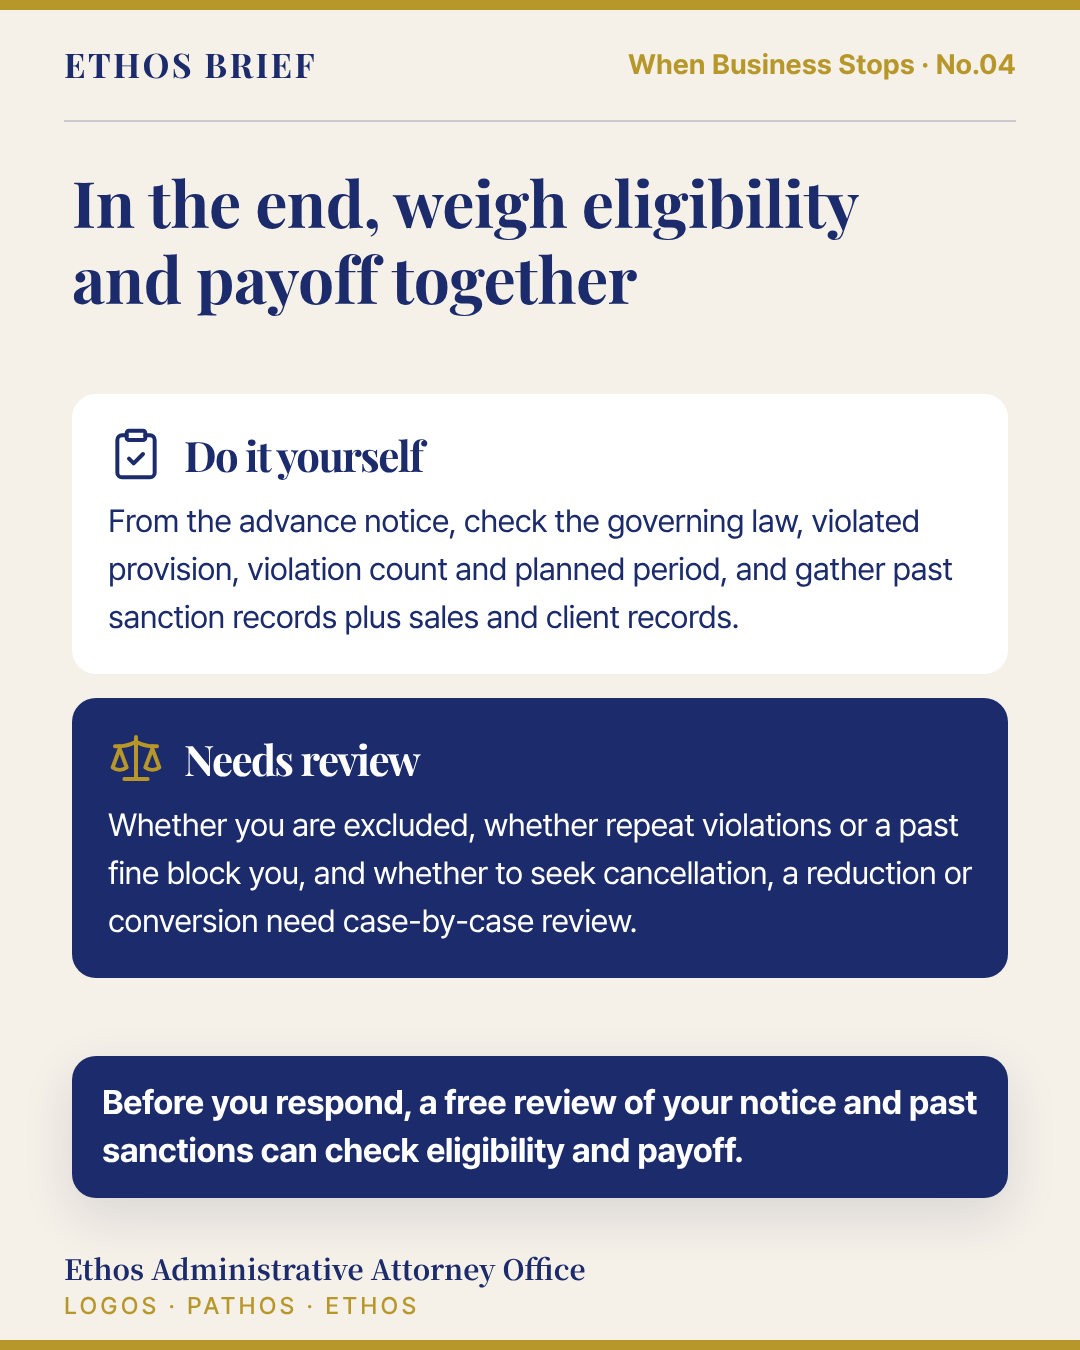
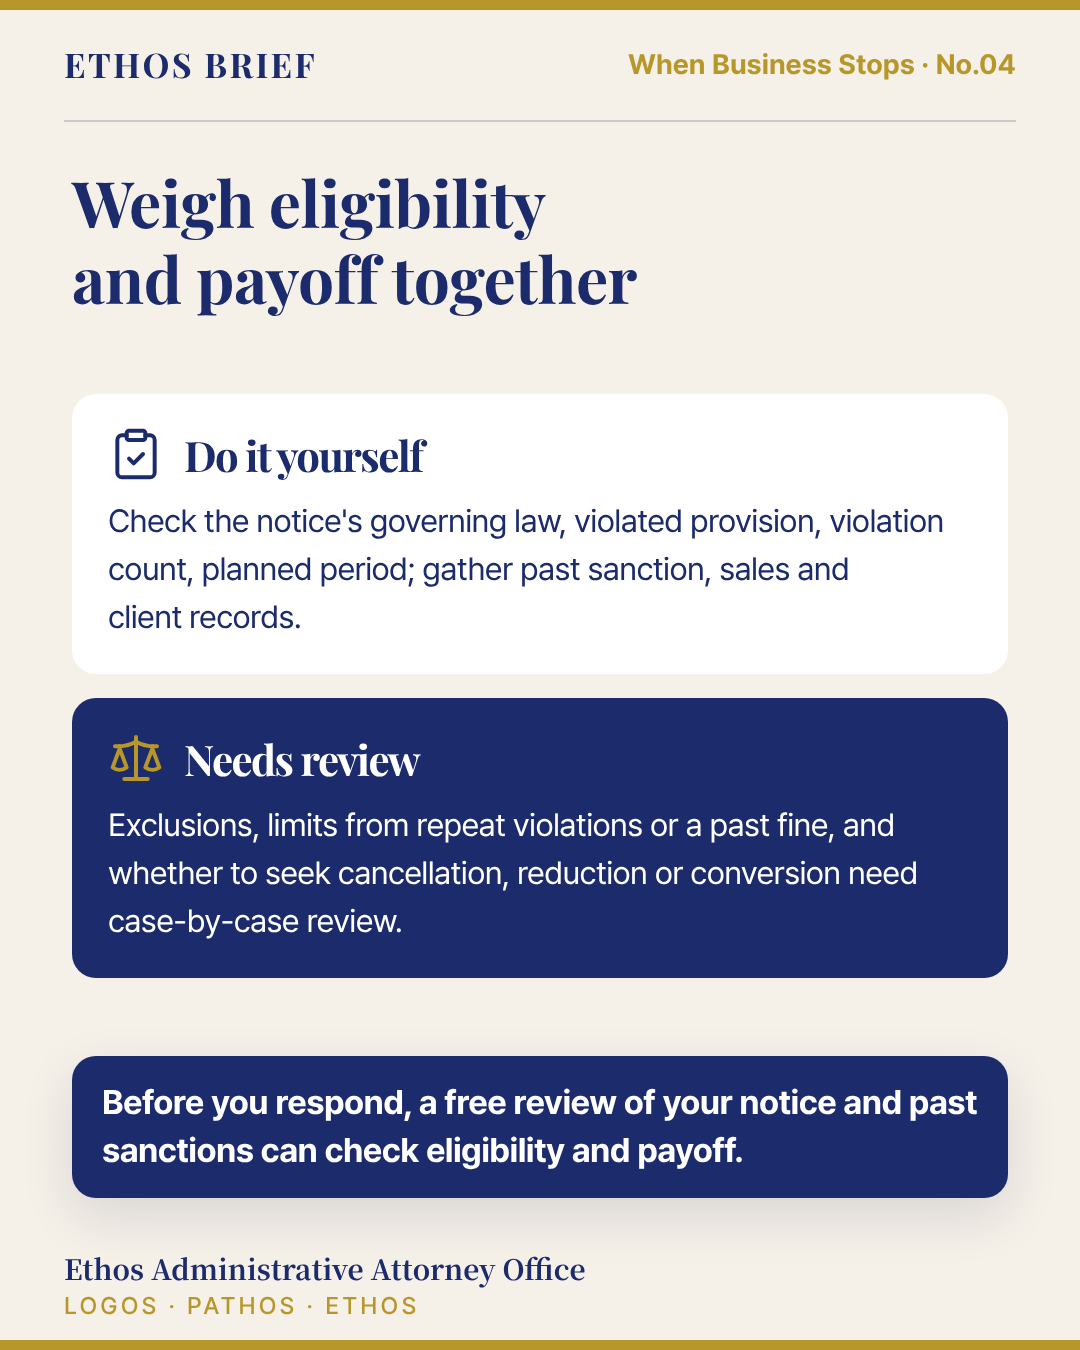
content: TEST-SUSPENSION-V3 밀도 조정(국문 10장, 영문 4·7·10장), 성과 기록 준비, 문서 정리
Claude-Session: https://claude.ai/code/session_01QUs8FUpMwmocYMUwhS2875

Changed region(s): [[0.0917, 0.5911, 0.8861, 0.7156], [0.0917, 0.3733, 0.8861, 0.4667], [0.0611, 0.1244, 0.7944, 0.1867]]

diff --git a/content/TEST-SUSPENSION-V3/en/card_04.html b/content/TEST-SUSPENSION-V3/en/card_04.html
@@ -12,8 +12,8 @@
   <div class="hl" data-frame="line"></div>
   <div class="body">
     <div class="z-title" data-zone="title"><h2 class="h2" data-role="headline">In Seoul, a <span data-annotate="underline">15-day</span> suspension<br>became a fine</h2></div>
-    <div class="z-main" data-zone="main"><div class="q-head"><div class="q-art" data-decor data-focal><svg class="obj" data-asset="phosphor/gavel" aria-hidden="true" focusable="false" xmlns="http://www.w3.org/2000/svg" viewBox="0 0 256 256" fill="currentColor"><path d="M149.66,45.66l-64,64a8,8,0,0,1-11.32,0l-16-16a8,8,0,0,1,0-11.32l64-64a8,8,0,0,1,11.32,0l16,16A8,8,0,0,1,149.66,45.66Zm88,76.68-16-16a8,8,0,0,0-11.32,0l-64,64a8,8,0,0,0,0,11.32l16,16a8,8,0,0,0,11.32,0l64-64A8,8,0,0,0,237.66,122.34Z" style="fill:var(--obj-fill, var(--ethos-gold))"/><path d="M243.32,116.69l-16-16a16,16,0,0,0-20.84-1.53L156.84,49.52a16,16,0,0,0-1.52-20.84l-16-16a16,16,0,0,0-22.63,0l-64,64a16,16,0,0,0,0,22.63l16,16a16,16,0,0,0,20.83,1.52L96.69,124,31.31,189.38A25,25,0,0,0,66.63,224.7L132,159.32l7.17,7.16a16,16,0,0,0,1.52,20.84l16,16a16,16,0,0,0,22.63,0l64-64A16,16,0,0,0,243.32,116.69ZM80,104,64,88l64-64,16,16ZM55.32,213.38a9,9,0,0,1-12.69,0,9,9,0,0,1,0-12.68L108,135.32,120.69,148ZM101,105.66,145.66,61,195,110.34,150.35,155ZM168,192l-16-16,4-4h0l56-56h0l4-4,16,16Z"/></svg></div><div class="q-src" data-role="label">Seoul Metropolitan Administrative Appeals Commission 2024-01195, Sept. 23, 2024</div></div><div class="q-panel"><div class="q-body">The violation was confirmed, but given the specific circumstances, the 15-day suspension was changed to a fine replacing those 15 days.</div><div class="q-note">Contesting the violation and asking to change the form of the sanction are different responses.</div></div></div>
-    <div class="z-take" data-zone="take"><div class="close" data-role="takeaway">Even if the violation is hard to deny, you are not done: a fine conversion can still be reviewed.</div></div>
+    <div class="z-main" data-zone="main"><div class="q-head"><div class="q-art" data-decor data-focal><svg class="obj" data-asset="phosphor/gavel" aria-hidden="true" focusable="false" xmlns="http://www.w3.org/2000/svg" viewBox="0 0 256 256" fill="currentColor"><path d="M149.66,45.66l-64,64a8,8,0,0,1-11.32,0l-16-16a8,8,0,0,1,0-11.32l64-64a8,8,0,0,1,11.32,0l16,16A8,8,0,0,1,149.66,45.66Zm88,76.68-16-16a8,8,0,0,0-11.32,0l-64,64a8,8,0,0,0,0,11.32l16,16a8,8,0,0,0,11.32,0l64-64A8,8,0,0,0,237.66,122.34Z" style="fill:var(--obj-fill, var(--ethos-gold))"/><path d="M243.32,116.69l-16-16a16,16,0,0,0-20.84-1.53L156.84,49.52a16,16,0,0,0-1.52-20.84l-16-16a16,16,0,0,0-22.63,0l-64,64a16,16,0,0,0,0,22.63l16,16a16,16,0,0,0,20.83,1.52L96.69,124,31.31,189.38A25,25,0,0,0,66.63,224.7L132,159.32l7.17,7.16a16,16,0,0,0,1.52,20.84l16,16a16,16,0,0,0,22.63,0l64-64A16,16,0,0,0,243.32,116.69ZM80,104,64,88l64-64,16,16ZM55.32,213.38a9,9,0,0,1-12.69,0,9,9,0,0,1,0-12.68L108,135.32,120.69,148ZM101,105.66,145.66,61,195,110.34,150.35,155ZM168,192l-16-16,4-4h0l56-56h0l4-4,16,16Z"/></svg></div><div class="q-src" data-role="label">Seoul Metropolitan Administrative Appeals Commission 2024-01195, Sept. 23, 2024</div></div><div class="q-panel"><div class="q-body">The violation was confirmed, but given the circumstances, the 15-day suspension became a fine in its place.</div><div class="q-note">Contesting the violation and asking to change the sanction's form are different moves.</div></div></div>
+    <div class="z-take" data-zone="take"><div class="close" data-role="takeaway">A violation that is hard to deny can still leave room for a fine conversion.</div></div>
   </div>
   <div class="ftr"><div class="org" data-frame="org">Ethos Administrative Attorney Office</div><div class="tagl" data-frame="tagline">LOGOS · PATHOS · ETHOS</div><div class="pg" data-frame="page" aria-hidden="true"></div></div>
   <div class="gold-bottom" data-frame="gold-bottom"></div>

diff --git a/content/TEST-SUSPENSION-V3/en/card_10.html b/content/TEST-SUSPENSION-V3/en/card_10.html
@@ -11,7 +11,7 @@
   <div class="hdr"><span class="wm" data-frame="wordmark">ETHOS BRIEF</span><span class="sec" data-frame="section">When Business Stops · No.04</span></div>
   <div class="hl" data-frame="line"></div>
   <div class="body">
-    <div class="z-title" data-zone="title"><h2 class="h2" data-role="headline">In the end, weigh eligibility<br>and payoff together</h2></div>
+    <div class="z-title" data-zone="title"><h2 class="h2" data-role="headline">Weigh eligibility<br>and payoff together</h2></div>
     <div class="z-main" data-zone="main"><div class="bound stack"><div class="bound-col"><div class="bound-h"><div class="bound-ico" style="color:var(--ethos-navy)"><svg class="ico" data-icon="clipboard-check" aria-hidden="true" focusable="false"
   xmlns="http://www.w3.org/2000/svg"
  
@@ -26,7 +26,7 @@
   <rect width="8" height="4" x="8" y="2" rx="1" ry="1" />
   <path d="M16 4h2a2 2 0 0 1 2 2v14a2 2 0 0 1-2 2H6a2 2 0 0 1-2-2V6a2 2 0 0 1 2-2h2" />
   <path d="m9 14 2 2 4-4" />
-</svg></div><div class="bound-k">Do it yourself</div></div><div class="bound-t">From the advance notice, check the governing law, violated provision, violation count and planned period, and gather past sanction records plus sales and client records.</div></div><div class="bound-col deep"><div class="bound-h"><div class="bound-ico"><svg class="ico" data-icon="scale" aria-hidden="true" focusable="false"
+</svg></div><div class="bound-k">Do it yourself</div></div><div class="bound-t">Check the notice's governing law, violated provision, violation count, planned period; gather past sanction, sales and client records.</div></div><div class="bound-col deep"><div class="bound-h"><div class="bound-ico"><svg class="ico" data-icon="scale" aria-hidden="true" focusable="false"
   xmlns="http://www.w3.org/2000/svg"
  
  
@@ -42,7 +42,7 @@
   <path d="M3 7h1a17 17 0 0 0 8-2 17 17 0 0 0 8 2h1" />
   <path d="m5 8 3 8a5 5 0 0 1-6 0zV7" />
   <path d="M7 21h10" />
-</svg></div><div class="bound-k">Needs review</div></div><div class="bound-t">Whether you are excluded, whether repeat violations or a past fine block you, and whether to seek cancellation, a reduction or conversion need case-by-case review.</div></div></div></div>
+</svg></div><div class="bound-k">Needs review</div></div><div class="bound-t">Exclusions, limits from repeat violations or a past fine, and whether to seek cancellation, reduction or conversion need case-by-case review.</div></div></div></div>
     <div class="z-take" data-zone="take"><div class="take" data-role="takeaway">Before you respond, a free review of your notice and past sanctions can check eligibility and payoff.</div></div>
   </div>
   <div class="ftr"><div class="org" data-frame="org">Ethos Administrative Attorney Office</div><div class="tagl" data-frame="tagline">LOGOS · PATHOS · ETHOS</div><div class="pg" data-frame="page" aria-hidden="true"></div></div>

diff --git a/content/TEST-SUSPENSION-V3/en/card_07.html b/content/TEST-SUSPENSION-V3/en/card_07.html
@@ -12,8 +12,8 @@
   <div class="hl" data-frame="line"></div>
   <div class="body">
     <div class="z-title" data-zone="title"><h2 class="h2" data-role="headline">A medical waste firm's<br>1.5-month suspension stood</h2></div>
-    <div class="z-main" data-zone="main"><div><div class="q-src" data-role="label" style="margin-bottom:10px">Central Administrative Appeals Commission 2026-10301, Aug. 18, 2026</div><div class="q-hero" data-decor data-focal>1.5 months</div></div><div class="q-panel"><div class="q-body">The firm cited waste piling up at client hospitals and infection risk, but given that other disposal firms were available, the need for conversion was not recognized.</div><div class="q-note">In the end, the 1.5-month suspension stood.</div></div></div>
-    <div class="z-take" data-zone="take"><div class="close" data-role="takeaway">Claiming harm to clients is not the same as meeting the legal requirements for conversion.</div></div>
+    <div class="z-main" data-zone="main"><div><div class="q-src" data-role="label" style="margin-bottom:10px">Central Administrative Appeals Commission 2026-10301, Aug. 18, 2026</div><div class="q-hero" data-decor data-focal>1.5 months</div></div><div class="q-panel"><div class="q-body">The firm cited waste piling up at client hospitals and infection risk, but with other disposal firms available, conversion was not found necessary.</div><div class="q-note">In the end, the 1.5-month suspension stood.</div></div></div>
+    <div class="z-take" data-zone="take"><div class="close" data-role="takeaway">Harm to clients is a different question from the legal requirements for conversion.</div></div>
   </div>
   <div class="ftr"><div class="org" data-frame="org">Ethos Administrative Attorney Office</div><div class="tagl" data-frame="tagline">LOGOS · PATHOS · ETHOS</div><div class="pg" data-frame="page" aria-hidden="true"></div></div>
   <div class="gold-bottom" data-frame="gold-bottom"></div>

diff --git a/content/TEST-SUSPENSION-V3/ko/card_10.html b/content/TEST-SUSPENSION-V3/ko/card_10.html
@@ -42,7 +42,7 @@
   <path d="M3 7h1a17 17 0 0 0 8-2 17 17 0 0 0 8 2h1" />
   <path d="m5 8 3 8a5 5 0 0 1-6 0zV7" />
   <path d="M7 21h10" />
-</svg></div><div class="bound-k">종합 검토</div></div><div class="bound-t">제외대상인지, 반복위반이나 과거 과징금 처분으로 막히는지, 취소와 감경과 전환 중 무엇을 요구할지는 개별 검토가 필요합니다.</div></div></div></div>
+</svg></div><div class="bound-k">종합 검토</div></div><div class="bound-t">제외대상인지, 반복위반·과거 과징금 처분으로 막히는지, 취소와 감경과 전환 중 무엇을 요구할지는 개별 검토가 필요합니다.</div></div></div></div>
     <div class="z-take" data-zone="take"><div class="take" data-role="takeaway">의견제출 전에 사전통지서와 과거 처분내역으로 전환 가능성과 실익을 무료 검토로 확인할 수 있습니다.</div></div>
   </div>
   <div class="ftr"><div class="org" data-frame="org">에토스 행정사사무소</div><div class="tagl" data-frame="tagline">LOGOS · PATHOS · ETHOS</div><div class="pg" data-frame="page" aria-hidden="true"></div></div>

diff --git a/content/TEST-SUSPENSION-V3/out/en/qa-report.md b/content/TEST-SUSPENSION-V3/out/en/qa-report.md
@@ -10,13 +10,13 @@
 | card_01.html | cover | 235 | 54 | 0.68 | 26 | PASS |
 | card_02.html | concept | 339 | 65 | 0.9 | 26 | PASS |
 | card_03.html | concept | 337 | 68 | 0.68 | 26 | PASS |
-| card_04.html | quote | 382 | 71 | 0.85 | 26 | PASS |
+| card_04.html | quote | 334 | 61 | 0.85 | 26 | PASS |
 | card_05.html | comparison | 358 | 64 | 0.76 | 26 | PASS |
 | card_06.html | checklist | 348 | 67 | 0.83 | 26 | PASS |
-| card_07.html | quote | 365 | 65 | 0.89 | 26 | PASS |
+| card_07.html | quote | 345 | 59 | 0.82 | 26 | PASS |
 | card_08.html | checklist | 230 | 45 | 0.76 | 26 | PASS |
 | card_09.html | checklist | 334 | 65 | 0.63 | 26 | PASS |
-| card_10.html | cta | 434 | 79 | 0.79 | 26 | PASS |
+| card_10.html | cta | 380 | 64 | 0.79 | 26 | PASS |
 
 ### card_01.html 권고
 - words 54 > 권고 48 (영문 호흡과 모바일 가독성 확인)
@@ -30,8 +30,8 @@
 - words 68 > 강한 경고 48 (영문 호흡과 모바일 가독성 확인)
 
 ### card_04.html 권고
-- chars 382 > 강한 경고 300 (문장 압축 또는 카드 분리 검토)
-- words 71 > 강한 경고 48 (영문 호흡과 모바일 가독성 확인)
+- chars 334 > 권고 300 (문장 압축 또는 카드 분리 검토)
+- words 61 > 권고 48 (영문 호흡과 모바일 가독성 확인)
 
 ### card_05.html 권고
 - chars 358 > 권고 300 (문장 압축 또는 카드 분리 검토)
@@ -42,16 +42,16 @@
 - words 67 > 강한 경고 48 (영문 호흡과 모바일 가독성 확인)
 
 ### card_07.html 권고
-- chars 365 > 권고 300 (문장 압축 또는 카드 분리 검토)
-- words 65 > 강한 경고 48 (영문 호흡과 모바일 가독성 확인)
+- chars 345 > 권고 300 (문장 압축 또는 카드 분리 검토)
+- words 59 > 권고 48 (영문 호흡과 모바일 가독성 확인)
 
 ### card_09.html 권고
 - chars 334 > 권고 300 (문장 압축 또는 카드 분리 검토)
 - words 65 > 강한 경고 48 (영문 호흡과 모바일 가독성 확인)
 
 ### card_10.html 권고
-- chars 434 > 강한 경고 300 (문장 압축 또는 카드 분리 검토)
-- words 79 > 강한 경고 48 (영문 호흡과 모바일 가독성 확인)
+- chars 380 > 권고 300 (문장 압축 또는 카드 분리 검토)
+- words 64 > 권고 48 (영문 호흡과 모바일 가독성 확인)
 
 ## 사람이 확인할 것 (자동화 불가)
 - [ ] 법령·판례 해석이 원문과 일치하는가 (변호사·행정사 최종 확인)

diff --git a/CHANGELOG.md b/CHANGELOG.md
@@ -1,5 +1,13 @@
 # Changelog
 
+## 2026-10-07 — 남은 개선 마무리(표·흐름 부품, 표지 그림, 밀도, 성과 기록)
+
+- 자동 디자인: 표(`.tbl2`, 5행 이상 압축), 세로 흐름(`.vflow`, 아이콘 배지+화살표+메모), 마지막 장 3~6개 목록(`.docs`) 부품. 문자열 항목("제목: 설명")은 구분 기호를 남겨 원문 그대로 보이게 했다. GAME-OVERSEAS-06-V2-DRAFT의 표 2장·흐름 1장이 자동 디자인으로 나온다.
+- `ci_render.py`: 자동 초안이 QA를 깨면 실패한 카드만 기본 빌더로 되돌리고, 그래도 실패할 때만 전체를 되돌린다.
+- 승인 세트 SUSPENSION-SURCHARGE-04(`art: scale, receipt`)·GAME-OVERSEAS-06(`art: laptop, landmark`)과 V2-DRAFT 표지에 `art` 추가(사용자 허락, 문구 변경 없음). `plain-cover` 경고 4건 해소, assets.md 출처 기록.
+- TEST-SUSPENSION-V3 밀도: 국문 10장 권고 해소, 영문 4·7·10장 압축(사실·한정어 비교 경고 0). `performance-log.csv` 준비(표지 Hook A/B 변수 기록).
+- 미해결 기준 충돌: `gates.json` 영문 권고(카드당 300자·48단어)와 `card-authoring-spec.md`의 영문 평균 330자 이상 권장이 동시에 맞지 않는다. `gates.json`은 사람만 고치는 파일이라 그대로 두었다.
+
 ## 2026-10-07 — 자동 디자인: ChatGPT JSON만으로 강화된 미리보기
 
 - 운영 구조(사용자 확인): ChatGPT가 card-data JSON을 쓰고 Codex가 나머지를 실현한다. 그런데 JSON만 올린 세트의 CI 미리보기는 기본 빌더라 같은 목록 틀이었다.

diff --git a/content/TEST-SUSPENSION-V3/review.md b/content/TEST-SUSPENSION-V3/review.md
@@ -25,3 +25,9 @@ C3 흐름: 4/5 — 국문과 같은 순서·구도.
 C4 사실과 형식: 4/5 — QA PASS, 카피 잠금 통과, 두 언어 구조 일치(validate_bilingual PASS). 행정사 표기는 꼬리말 Administrative Attorney Office.
 고친 것: 1차 영문 렌더에서 2장 핵심어 칸 넘침, 3장 대조어 넘침, 4장 '15-day' 줄 갈라짐, 7·9장 제목 3줄과 숫자 칸 겹침 → 프리셋 A에 영문 크기 규칙 추가.
 남은 것(사람 확인): 영어 원어민 감수, 4·7·10장 밀도.
+
+2026-10-07 밀도 조정(사용자 진행 승인)
+- 국문 10장: '반복위반이나 과거 과징금 처분' → '반복위반·과거 과징금 처분'. chars 181 → 180 이하, QA 권고 해소.
+- 영문 4·7·10장 문장 압축, 10장 제목 단축. 10장 380자·64단어(강한 경고 한도 안). 사실 토큰·한정어 비교 경고 0.
+- 남은 것: 영문 대부분 카드가 gates.json 영문 권고(300자·48단어)를 넘는다. 카드 명세는 영문 평균 330자 이상을 권해 두 기준이 충돌한다(사람이 gates.json 또는 명세 중 하나를 정해야 함).
+

diff --git a/content/TEST-SUSPENSION-V3/marketing-report.md b/content/TEST-SUSPENSION-V3/marketing-report.md
@@ -1,18 +1,17 @@
 # Marketing Review
 
-종합 권고 점수: **96/100**
+종합 권고 점수: **97/100**
 
 > 발행을 막지 않는 편집 보조 지표다. 실제 성과 데이터로 조정한다.
 
 | 언어 | 훅 | 신뢰 | 가독성 | 실용성 | 전환 | 합계 |
 |---|---:|---:|---:|---:|---:|---:|
-| ko | 20 | 20 | 19 | 20 | 20 | 99 |
+| ko | 20 | 20 | 20 | 20 | 20 | 100 |
 | en | 20 | 20 | 14 | 20 | 20 | 94 |
 
 ## 권고
-- ko: 밀도 권장 초과 1/10장(글자) — 가독성 -1점
 - en: 밀도 권장 초과 8/10장(글자/단어) — 가독성 -6점
-- en: 강한 밀도 경고 카드 2, 3, 4, 5, 6, 7, 9, 10 — 문장 압축 또는 카드 분리 후 축소 시트 재확인
+- en: 강한 밀도 경고 카드 2, 3, 5, 6, 9, 10 — 문장 압축 또는 카드 분리 후 축소 시트 재확인
 
 ## 사람이 확인할 것
 - 표지가 2초 안에 대상·문제·정보 보상 중 둘 이상을 전달하는가

diff --git a/content/TEST-SUSPENSION-V3/out/ko/qa-report.md b/content/TEST-SUSPENSION-V3/out/ko/qa-report.md
@@ -16,10 +16,7 @@
 | card_07.html | quote | 170 | 42 | 0.91 | 26 | PASS |
 | card_08.html | checklist | 101 | 34 | 0.86 | 26 | PASS |
 | card_09.html | checklist | 135 | 38 | 0.73 | 26 | PASS |
-| card_10.html | cta | 181 | 52 | 0.83 | 26 | PASS |
-
-### card_10.html 권고
-- chars 181 > 권고 180 (문장 압축 또는 카드 분리 검토)
+| card_10.html | cta | 180 | 51 | 0.75 | 26 | PASS |
 
 ## 사람이 확인할 것 (자동화 불가)
 - [ ] 법령·판례 해석이 원문과 일치하는가 (변호사·행정사 최종 확인)
